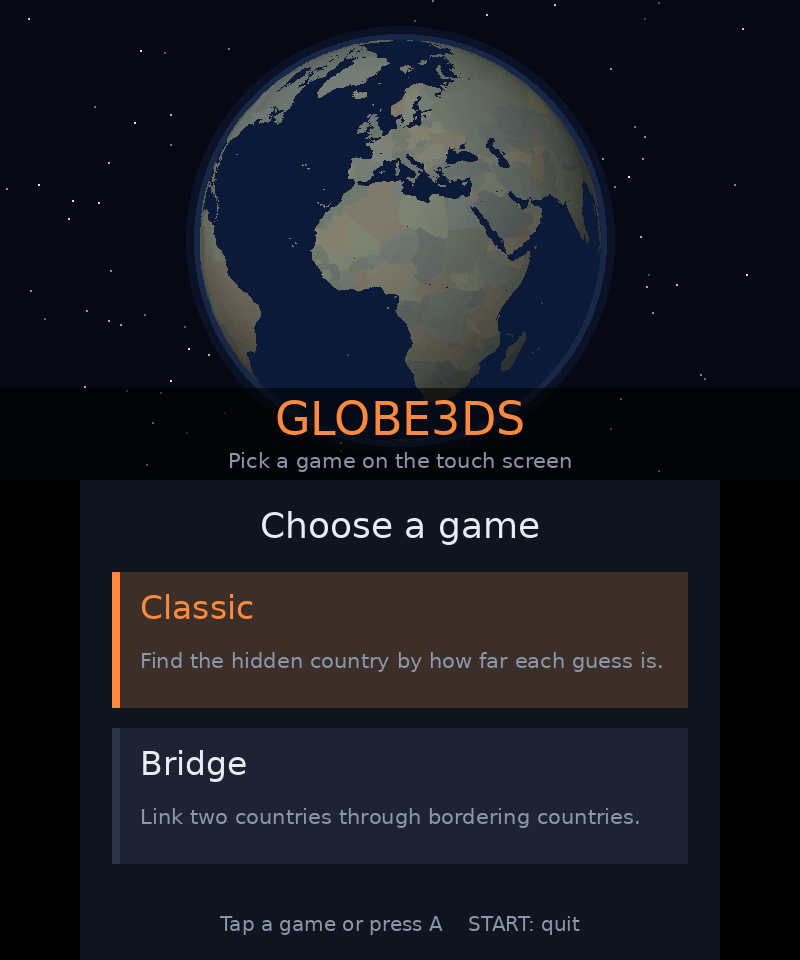
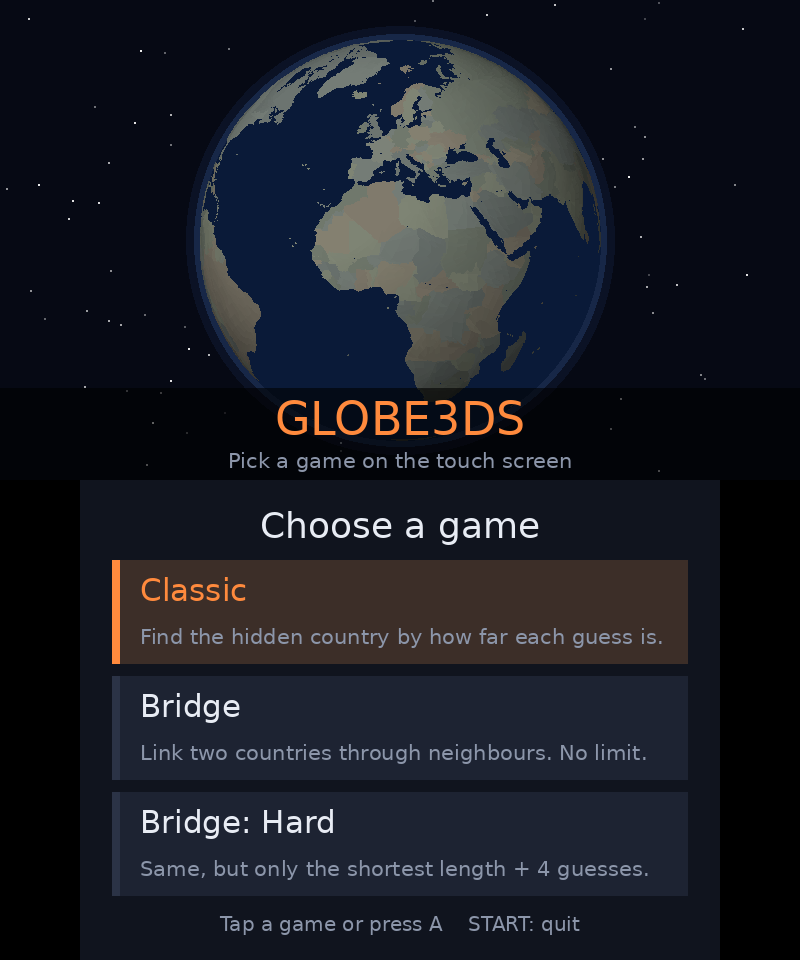
Split Bridge into Normal (no guess limit) and Hard modes
Bridge now has no guess limit; Bridge: Hard keeps the shortest length
plus 4 guesses. Each has its own stats file and a menu entry.

Claude-Session: https://claude.ai/code/session_01H4xamnjMMucmCaCvZnepUW

diff --git a/source/main.c b/source/main.c
@@ -119,10 +119,11 @@ static Game game;
 static Stats stats;
 static bool inMenu = true;
 static int menuSel = 0;
-static const char* MODE_NAMES[MODE_COUNT] = { "Classic", "Bridge" };
+static const char* MODE_NAMES[MODE_COUNT] = { "Classic", "Bridge", "Bridge: Hard" };
 static const char* MODE_DESC[MODE_COUNT] = {
 	"Find the hidden country by how far each guess is.",
-	"Link two countries through bordering countries.",
+	"Link two countries through neighbours. No limit.",
+	"Same, but only the shortest length + 4 guesses.",
 };
 static GlobeView view;
 static BottomView bottomView = VIEW_KEYBOARD;
@@ -170,7 +171,7 @@ static void refresh_colors(void)
 		markerMask[i] = 0;
 	}
 	if (inMenu) return;
-	if (game.mode == MODE_BRIDGE) {
+	if (is_bridge(game.mode)) {
 		static const u32* routeColor[3] = { &CLR_ON, &CLR_NEAR, &CLR_OFF };
 		if (game.gaveUp)
 			for (int i = 0; i < game.chainLen; i++) { countryColor[game.chain[i]] = CLR_REVEAL; markerMask[game.chain[i]] = 1; }
@@ -228,7 +229,7 @@ static void new_game(GameMode mode)
 	listScroll = 0;
 	confirmGiveUp = false;
 	view.animating = false;
-	if (mode == MODE_BRIDGE) {
+	if (is_bridge(mode)) {
 		focus_between(game.start, game.end);
 		view.lat = view.tlat; view.lon = view.tlon; view.animating = false;  // jump straight there
 		zoom_to_fit(game.start, game.end);
@@ -274,7 +275,7 @@ static void submit_guess(int c)
 	confirmGiveUp = false;
 	if (r == RESULT_WIN) finish_game(true);
 	if (r == RESULT_LOSE) finish_game(false);
-	if (game.mode == MODE_BRIDGE && (r == RESULT_WIN || r == RESULT_LOSE)) focus_between(game.start, game.end);
+	if (is_bridge(game.mode) && (r == RESULT_WIN || r == RESULT_LOSE)) focus_between(game.start, game.end);
 }
 
 static void type_char(char ch)
@@ -293,7 +294,7 @@ static void type_char(char ch)
 // sorting key for the guess list: classic = distance, bridge = route status (stable)
 static int guess_rank(int c)
 {
-	return game.mode == MODE_BRIDGE ? (int)bridge_route_status(&game, c) : country_distance(c, game.target);
+	return is_bridge(game.mode) ? (int)bridge_route_status(&game, c) : country_distance(c, game.target);
 }
 
 // sorted copy of guesses, best first
@@ -348,9 +349,13 @@ static void legend_swatch(float y, u32 color, const char* label)
 static void draw_top_bridge(float cx)
 {
 	char buf[200];
-	text(8, 4, 0.55f, CLR_ACCENT, 0, "BRIDGE");
-	int left = game.maxGuesses - game.guessCount;
-	text(TOP_W - 8, 4, 0.5f, left <= 1 && !game.won ? CLR_OFF : CLR_DIM, C2D_AlignRight, "Guesses left: %d", left);
+	text(8, 4, 0.55f, CLR_ACCENT, 0, game.maxGuesses ? "BRIDGE: HARD" : "BRIDGE");
+	if (game.maxGuesses) {
+		int left = game.maxGuesses - game.guessCount;
+		text(TOP_W - 8, 4, 0.5f, left <= 1 && !game.won ? CLR_OFF : CLR_DIM, C2D_AlignRight, "Guesses left: %d", left);
+	} else {
+		text(TOP_W - 8, 4, 0.5f, CLR_DIM, C2D_AlignRight, "Guesses: %d", game.guessCount);
+	}
 
 	legend_swatch(40, CLR_START, "start");
 	legend_swatch(56, CLR_END, "goal");
@@ -366,7 +371,7 @@ static void draw_top_bridge(float cx)
 			     game.guessCount == 1 ? "" : "es");
 		else
 			text(cx, SCR_H - 32, 0.55f, CLR_OFF, C2D_AlignCenter, "%s One route was:",
-			     game.guessCount >= game.maxGuesses ? "Out of guesses." : "You gave up.");
+			     game.maxGuesses && game.guessCount >= game.maxGuesses ? "Out of guesses." : "You gave up.");
 		chain_text(buf, sizeof(buf));
 		text_fit(cx, SCR_H - 15, 0.42f, TOP_W - 12, CLR_TEXT, C2D_AlignCenter, buf);
 	} else if (game.guessCount == 0) {
@@ -399,7 +404,7 @@ static void draw_top(float time)
 	globe_draw(&view, countryColor, cx, cy);
 	int hl = game.guessCount > 0 ? game.guesses[game.guessCount - 1] : -1;
 	if (game.won || game.gaveUp) hl = game.target;
-	if (game.mode == MODE_BRIDGE && game.guessCount == 0) hl = game.end;
+	if (is_bridge(game.mode) && game.guessCount == 0) hl = game.end;
 	if (inMenu) hl = -1;
 	globe_draw_markers(&view, countryColor, markerMask, hl, time, cx, cy);
 
@@ -410,7 +415,7 @@ static void draw_top(float time)
 		return;
 	}
 
-	if (game.mode == MODE_BRIDGE) {
+	if (is_bridge(game.mode)) {
 		draw_top_bridge(cx);
 		return;
 	}
@@ -507,7 +512,7 @@ static void draw_keyboard_view(void)
 
 static void draw_list_view(void)
 {
-	text(8, 8, 0.5f, CLR_TEXT, 0, game.mode == MODE_BRIDGE ? "Guesses, best first" : "Guesses, closest first");
+	text(8, 8, 0.5f, CLR_TEXT, 0, is_bridge(game.mode) ? "Guesses, best first" : "Guesses, closest first");
 	draw_button(254, 4, 62, 24, CLR_KEY, CLR_TEXT, 0.45f, "Back (X)");
 	int order[MAX_GUESSES];
 	int n = sorted_guesses(order);
@@ -523,7 +528,7 @@ static void draw_list_view(void)
 		C2D_DrawRectSolid(4, y, 0.55f, 8, LIST_ROW - 2, countryColor[c]);
 		text(18, y + 3, 0.45f, CLR_DIM, 0, "%d", r + listScroll + 1);
 		text(42, y + 3, 0.48f, CLR_TEXT, 0, "%s", COUNTRIES[c].name);
-		if (game.mode == MODE_BRIDGE) {
+		if (is_bridge(game.mode)) {
 			RouteStatus rs = bridge_route_status(&game, c);
 			text(310, y + 4, 0.42f, countryColor[c], C2D_AlignRight, "%s", route_label(rs));
 			continue;
@@ -541,9 +546,9 @@ static void draw_list_view(void)
 
 static void draw_result_view(void)
 {
-	if (game.mode == MODE_BRIDGE) {
+	if (is_bridge(game.mode)) {
 		text(160, 14, 0.75f, game.won ? CLR_ON : CLR_ACCENT, C2D_AlignCenter, "%s",
-		     game.won ? "Bridge built!" : (game.guessCount >= game.maxGuesses ? "Out of guesses" : "Bridge abandoned"));
+		     game.won ? "Bridge built!" : (game.maxGuesses && game.guessCount >= game.maxGuesses ? "Out of guesses" : "Bridge abandoned"));
 		char buf[96];
 		snprintf(buf, sizeof(buf), "%s to %s", COUNTRIES[game.start].name, COUNTRIES[game.end].name);
 		text_fit(160, 42, 0.55f, 300, CLR_TEXT, C2D_AlignCenter, buf);
@@ -577,12 +582,12 @@ static void draw_menu_view(void)
 {
 	text(160, 10, 0.7f, CLR_TEXT, C2D_AlignCenter, "Choose a game");
 	for (int i = 0; i < MODE_COUNT; i++) {
-		float y = 46 + i * 78;
+		float y = 40 + i * 58;
 		bool sel = i == menuSel;
-		C2D_DrawRectSolid(16, y, 0.5f, 288, 68, sel ? RGBA(60, 46, 40, 255) : CLR_PANEL);
-		C2D_DrawRectSolid(16, y, 0.55f, 4, 68, sel ? CLR_ACCENT : CLR_KEY);
-		text(30, y + 6, 0.65f, sel ? CLR_ACCENT : CLR_TEXT, 0, "%s", MODE_NAMES[i]);
-		text_fit(30, y + 36, 0.42f, 266, CLR_DIM, 0, MODE_DESC[i]);
+		C2D_DrawRectSolid(16, y, 0.5f, 288, 52, sel ? RGBA(60, 46, 40, 255) : CLR_PANEL);
+		C2D_DrawRectSolid(16, y, 0.55f, 4, 52, sel ? CLR_ACCENT : CLR_KEY);
+		text(30, y + 4, 0.6f, sel ? CLR_ACCENT : CLR_TEXT, 0, "%s", MODE_NAMES[i]);
+		text_fit(30, y + 30, 0.42f, 266, CLR_DIM, 0, MODE_DESC[i]);
 	}
 	text(160, 214, 0.4f, CLR_DIM, C2D_AlignCenter, "Tap a game or press A    START: quit");
 }
@@ -613,7 +618,7 @@ static void handle_touch(touchPosition t, u32 kDown, u32 kHeld)
 	if (!(kDown & KEY_TOUCH)) return;
 	if (inMenu) {
 		for (int i = 0; i < MODE_COUNT; i++)
-			if (in_rect(t, 16, 46 + i * 78, 288, 68)) { menuSel = i; new_game((GameMode)i); }
+			if (in_rect(t, 16, 40 + i * 58, 288, 52)) { menuSel = i; new_game((GameMode)i); }
 		return;
 	}
 	if (game.won || game.gaveUp) {
@@ -690,7 +695,7 @@ int main(int argc, char* argv[])
 				game_give_up(&game);
 				finish_game(false);
 				refresh_colors();
-				if (game.mode == MODE_BRIDGE) focus_between(game.start, game.end);
+				if (is_bridge(game.mode)) focus_between(game.start, game.end);
 				else globe_focus(&view, COUNTRIES[game.target].lat, COUNTRIES[game.target].lon);
 				confirmGiveUp = false;
 			} else confirmGiveUp = true;

diff --git a/source/game.c b/source/game.c
@@ -99,7 +99,7 @@ void game_new(Game* g, GameMode mode)
 	short parent[512];
 	bfs(g->end, NULL, g->hopFromEnd, parent);
 	g->minLinks = g->hopFromStart[g->end] - 1;
-	g->maxGuesses = g->minLinks + BRIDGE_EXTRA_GUESSES;
+	g->maxGuesses = mode == MODE_BRIDGE_HARD ? g->minLinks + BRIDGE_EXTRA_GUESSES : 0;
 	g->target = g->end;
 	g->guessed[g->start] = g->guessed[g->end] = true;
 	// keep one shortest route to reveal if the player runs out of guesses.
@@ -156,7 +156,7 @@ void game_update_suggestions(Game* g)
 	int scores[MAX_SUGGEST];
 	for (int i = 0; i < COUNTRY_COUNT; i++) {
 		if (g->guessed[i]) continue;
-		if (g->mode == MODE_BRIDGE && !COUNTRIES[i].target) continue;
+		if (is_bridge(g->mode) && !COUNTRIES[i].target) continue;
 		int s = match_score(COUNTRIES[i].keys, q, qlen);
 		if (s < 0) continue;
 		// insertion into a tiny sorted list (score, then alphabetical = index order)
@@ -193,7 +193,7 @@ static GuessResult bridge_guess(Game* g, int c)
 		g->won = true;
 		return RESULT_WIN;
 	}
-	if (g->guessCount >= g->maxGuesses) {
+	if (g->maxGuesses && g->guessCount >= g->maxGuesses) {
 		g->gaveUp = true;
 		return RESULT_LOSE;
 	}
@@ -204,7 +204,7 @@ GuessResult game_guess(Game* g, int c)
 {
 	if (g->won || g->gaveUp || c < 0) return RESULT_NONE;
 	if (g->guessCount >= MAX_GUESSES) return RESULT_NONE;
-	if (g->mode == MODE_BRIDGE) return bridge_guess(g, c);
+	if (is_bridge(g->mode)) return bridge_guess(g, c);
 	if (g->guessed[c]) return RESULT_REPEAT;
 	g->guessed[c] = true;
 	g->guesses[g->guessCount++] = c;
@@ -227,7 +227,8 @@ void game_give_up(Game* g)
 }
 
 #define STATS_DIR "sdmc:/3ds/globe3ds"
-static const char* STATS_FILES[MODE_COUNT] = { STATS_DIR "/stats.txt", STATS_DIR "/stats_bridge.txt" };
+static const char* STATS_FILES[MODE_COUNT] = { STATS_DIR "/stats.txt", STATS_DIR "/stats_bridge.txt",
+                                                  STATS_DIR "/stats_bridge_hard.txt" };
 
 void stats_load(Stats* s, GameMode mode)
 {

diff --git a/source/game.h b/source/game.h
@@ -6,7 +6,8 @@
 #define MAX_SUGGEST 3
 
 typedef enum { RESULT_NONE, RESULT_NEW, RESULT_REPEAT, RESULT_WIN, RESULT_ENDPOINT, RESULT_LOSE } GuessResult;
-typedef enum { MODE_CLASSIC, MODE_BRIDGE, MODE_COUNT } GameMode;
+typedef enum { MODE_CLASSIC, MODE_BRIDGE, MODE_BRIDGE_HARD, MODE_COUNT } GameMode;
+static inline bool is_bridge(GameMode m) { return m == MODE_BRIDGE || m == MODE_BRIDGE_HARD; }
 // Bridge mode: how a guessed country relates to the shortest land routes between the two ends
 typedef enum { ROUTE_ON, ROUTE_NEAR, ROUTE_OFF } RouteStatus;
 
@@ -19,7 +20,7 @@ typedef struct {
 	// bridge mode
 	int start, end;         // countries to connect
 	int minLinks;           // fewest countries needed between start and end
-	int maxGuesses;
+	int maxGuesses;         // 0 = no limit (normal bridge)
 	unsigned char hopFromStart[512], hopFromEnd[512]; // land-border steps, 255 = unreachable
 	int lastRoute;          // RouteStatus of the last guess
 	int chain[MAX_CHAIN];   // winning chain (start..end) or a revealed solution

diff --git a/README.md b/README.md
@@ -1,10 +1,10 @@
 # Globe3DS
 
-Nintendo 3DS homebrew country games on a spinning 3D globe. Pick a mode from the menu:
+Nintendo 3DS homebrew country games on a spinning 3D globe. Pick a game from the menu:
 
 - **Classic:** a country is hidden somewhere on the globe, and you find it by guessing. Every guess is
   painted in a colour that shows how close it is. Icy blue means far away, orange and red mean you're getting warm.
-- **Bridge:** you get a start country and a goal country, and you build a bridge between them out of
+- **Bridge** and **Bridge: Hard:** you get a start country and a goal country, and you build a bridge between them out of
   countries that share land borders.
 
 ![Playing](docs/screenshot-playing.png)
@@ -26,7 +26,9 @@ Nintendo 3DS homebrew country games on a spinning 3D globe. Pick a mode from the
 - Guess countries in any order. Each one is coloured by how useful it is:
   **green** is on a shortest route, **yellow** is close to one (a route at most two countries longer), and **red** is off route.
 - The bridge is built as soon as your guesses link the start to the goal through shared borders.
-- You get the shortest bridge length plus 4 guesses. Run out and one shortest route is shown.
+- **Bridge** (normal) has no guess limit: keep going until the bridge is built.
+- **Bridge: Hard** gives you only the shortest bridge length plus 4 guesses. Run out and one shortest route is shown.
+- Either way, SELECT twice gives up and shows a shortest route.
 - Only land borders count. Borders that exist only through overseas territories (France with Brazil and Suriname)
   don't count, and small territories such as Hong Kong aren't used.
 
